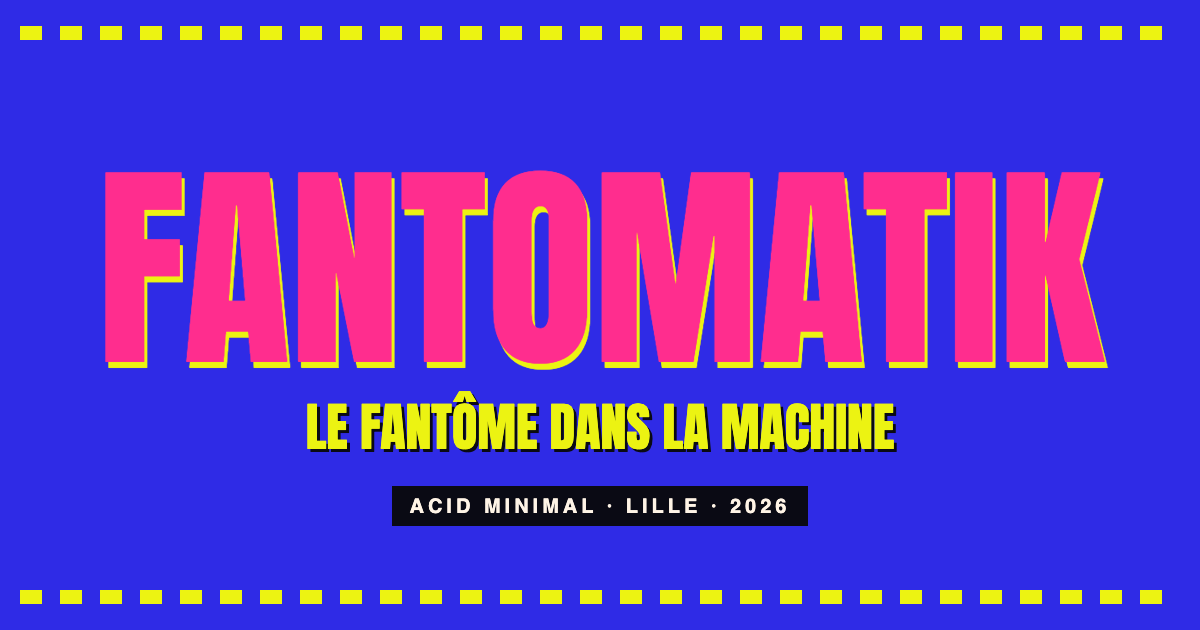
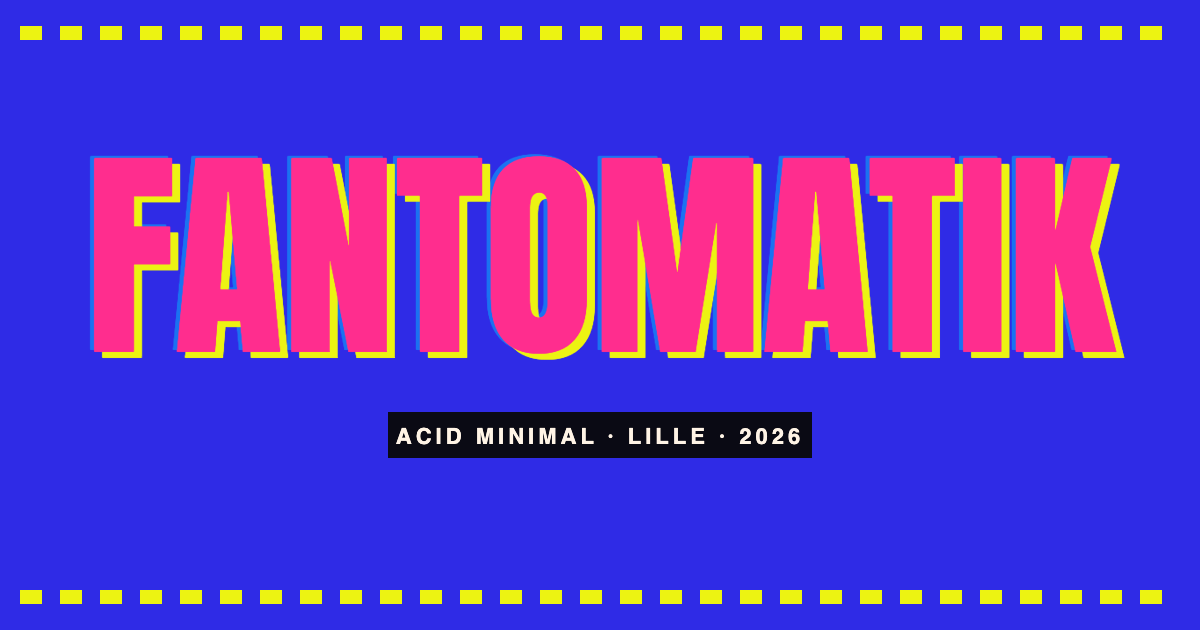
m

Changed region(s): [[0.0617, 0.2413, 0.9558, 0.8444]]

diff --git a/index.html b/index.html
@@ -13,7 +13,7 @@
   -->
 
   <title>fantomatik · acid minimal · lille</title>
-  <meta name="description" content="fantomatik, acid minimal sur machines depuis lille. le fantôme dans la machine. premier ep fuel the kollapse (ftk-001), 3 titres, en préparation.">
+  <meta name="description" content="fantomatik, acid minimal sur machines depuis lille. premier ep fuel the kollapse (ftk-001), 3 titres, en préparation.">
 
   <!-- url canonique : compte github pages dr-john-8bits, dépôt « fantomatik ».
        ajustez le segment final si le dépôt porte un autre nom. -->
@@ -25,7 +25,7 @@
   <!-- open graph -->
   <meta property="og:type" content="website">
   <meta property="og:title" content="fantomatik · acid minimal · lille">
-  <meta property="og:description" content="le fantôme dans la machine. une transmission acide depuis lille. premier ep fuel the kollapse (ftk-001), 3 titres, en préparation.">
+  <meta property="og:description" content="une transmission acide depuis lille. premier ep fuel the kollapse (ftk-001), 3 titres, en préparation.">
   <meta property="og:url" content="https://dr-john-8bits.github.io/fantomatik/">
   <meta property="og:image" content="https://dr-john-8bits.github.io/fantomatik/assets/og-image.png">
   <meta property="og:image:width" content="1200">
@@ -36,7 +36,7 @@
   <!-- twitter -->
   <meta name="twitter:card" content="summary_large_image">
   <meta name="twitter:title" content="fantomatik · acid minimal · lille">
-  <meta name="twitter:description" content="le fantôme dans la machine. une transmission acide depuis lille.">
+  <meta name="twitter:description" content="acid minimal sur machines, depuis lille.">
   <meta name="twitter:image" content="https://dr-john-8bits.github.io/fantomatik/assets/og-image.png">
   <meta name="twitter:image:alt" content="fantomatik en rose fluo sur fond bleu électrique.">
 
@@ -68,7 +68,6 @@
     <div class="wrap">
       <div class="badge" aria-hidden="true"><span>ftk</span><span>001</span></div>
       <h1 class="word" id="word">fantomatik</h1>
-      <p class="tagline">le fantôme dans la machine</p>
       <p class="meta">acid minimal · lille, fr · est. 2026</p>
     </div>
   </header>

diff --git a/README.md b/README.md
@@ -1,8 +1,6 @@
 # fantomatik
 
-le fantôme dans la machine.
-
-acid minimal sur machines, depuis lille. une transmission spectrale, captée nuit après nuit.
+acid minimal sur machines, depuis lille. une transmission acide, captée nuit après nuit.
 
 premier ep, fuel the kollapse (FTK-001), 3 titres, en préparation. premier concert le 5 XII 2026, à lille.
 